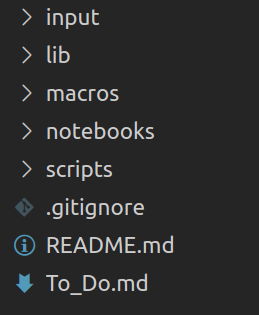
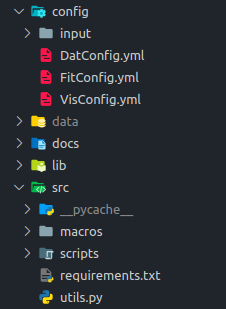
update

diff --git a/docs/Intro.md b/docs/Intro.md
@@ -61,15 +61,17 @@ or run `git checkout -b <your_branch_name>` in a terminal.
   </div>
   <div>
 
-📂 `\input` → input txt files are stored here and they are used as input in all the macros (check `TUTORIAL.txt` as template)
+📂 `\config` → input txt files are stored here and they are used as input in all the macros (check `TUTORIAL.txt` as template). Also some `.yml` configuration files for customizing fits and visualization.
 
 📂 `\lib` → all the functions of the library itself are stored here
 
-📂 `\macros` → macros to run the analysis. 0i are used for visualizing and 0# are used for processing data (they are sorted to make easy to remember the work-flow)
+📂 `\src` → executable code trough terminal
+
+  * `\macros`: to run the analysis. 0i are used for visualizing and 0# are used for processing data (they are sorted to make easy to remember the work-flow)
+  * `\scripts` → the scripts are used to configure the needed packages for the library (`copy_data.sh`, `setup.sh`)
 
 📂 `\notebooks` → some useful notebooks for interactive visualization 🙂.
 
-📂 `\scripts` → the scripts are used to configure the needed packages for the library (`copy_data.sh`, `setup.sh`)
   </div>
 </div>
 
